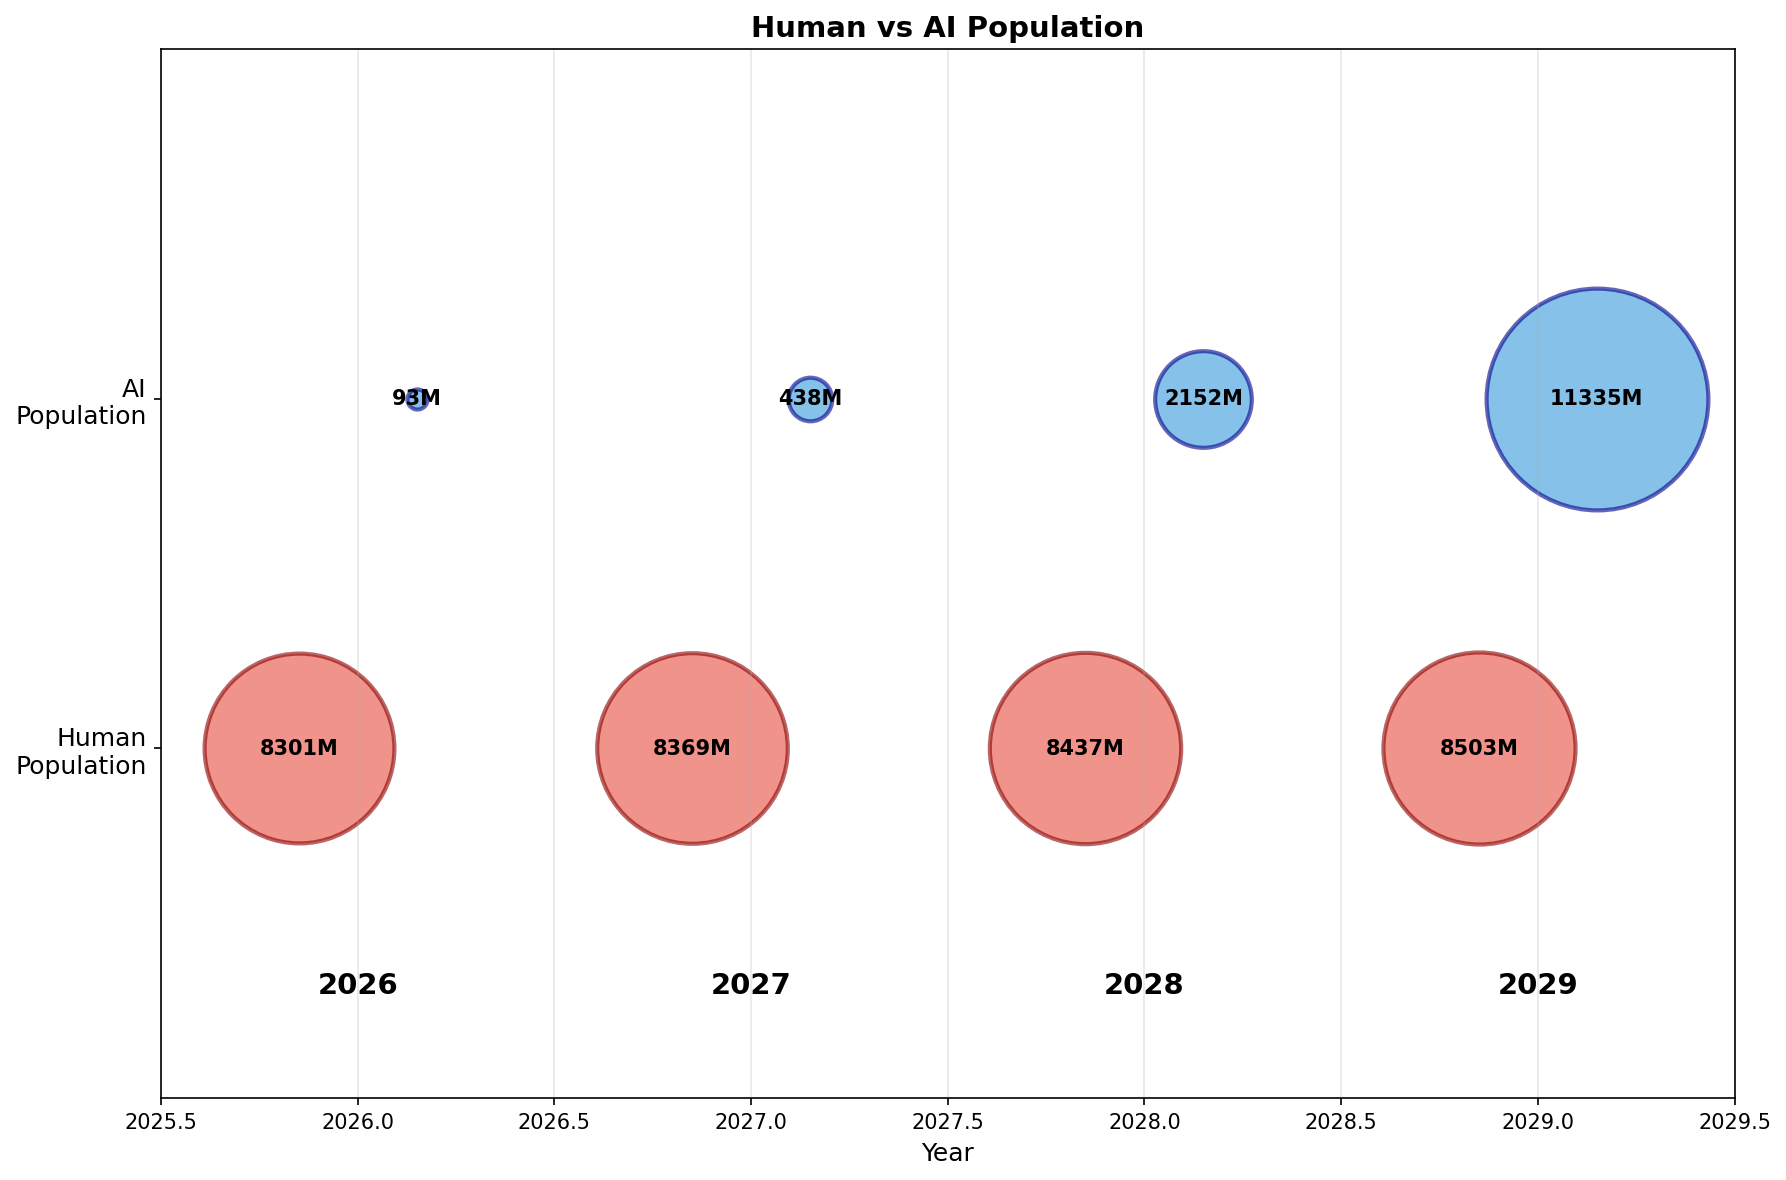
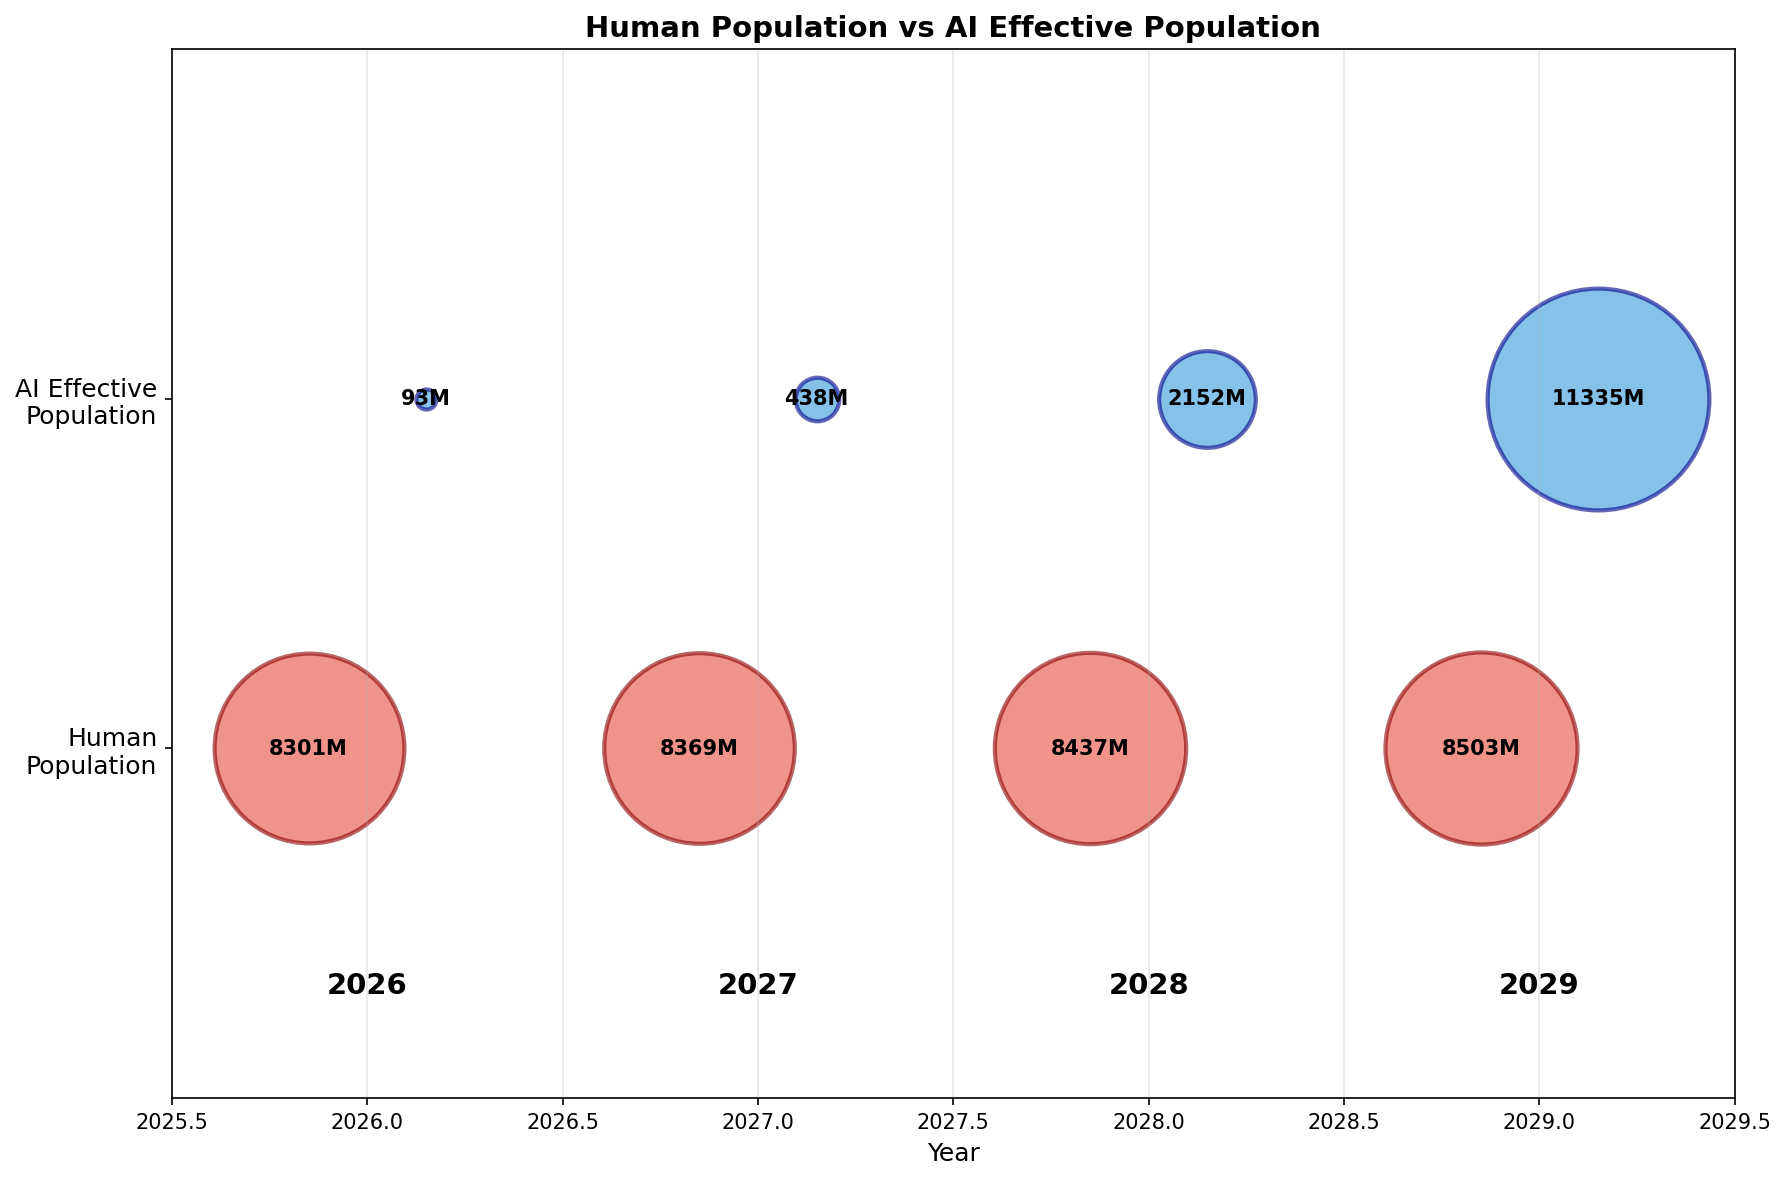
stuff

diff --git a/python/thinkingseconds/per_company_daily_token_projection.py b/python/thinkingseconds/per_company_daily_token_projection.py
@@ -1490,9 +1490,9 @@ def create_population_bubble_chart(models: dict):
     ax.set_xlim(2025.5, 2029.5)
     ax.set_ylim(0, 3)
     ax.set_yticks([1, 2])
-    ax.set_yticklabels(['Human\nPopulation', 'AI\nPopulation'], fontsize=12)
+    ax.set_yticklabels(['Human\nPopulation', 'AI Effective\nPopulation'], fontsize=12)
     ax.set_xlabel('Year', fontsize=12)
-    ax.set_title('Human vs AI Population', fontsize=14, fontweight='bold')
+    ax.set_title('Human Population vs AI Effective Population', fontsize=14, fontweight='bold')
     
     # Print values
     print("\Population Comparison (Effective Population):")

diff --git a/python/thinkingseconds/thinking_post.md b/python/thinkingseconds/thinking_post.md
@@ -12,7 +12,7 @@ However, I think his characterization of AI's effects as being more similar to a
 
 But this discussion got me thinking: how many "geniuses" do we have in the data center right now? That is, accounting for the fact the AIs "think" faster than humans do, and can think in parallel, how much thinking do the AIs do collectively in human terms?
 
-The second question I want to answer is: when will the collective thinking of all AIs will outweigh that of humans?  Phrased differently: when will there be 8 billion "geniuses" in the data center? 
+The second question I want to answer is: when will the collective thinking of all AIs outweigh that of humans?  Phrased differently: when will there be 8 billion "geniuses" in the data center? 
 
 AI usage is growing exponentially at the present moment. While exponential growth isn't guaranteed to continue, if it does, the crossover point might only be a few years away. To be clear, the crossover point doesn't intrinsically mean anything special. By then, the labor market, and the world at large, will already have been radically altered. However, I think it's worth keeping this date in mind as a marker for when human thought will be in the minority, and not the majority. 
 
@@ -34,10 +34,11 @@ With these two assumptions in mind, let's go!
     7. Limitations
 3. How many geniuses are in the data center right now?
 4. When will the crossover happen?
+5. Conclusion
 
 ## How many token-equivalents does a person think each day?
 
-The first part of this puzzle is figuring out the how much the average person think, in terms of tokens.
+The first part of this puzzle is figuring out how much the average person thinks, in terms of tokens.
 
 We don't have strong numbers on how fast people's internal stream of consciousness is, but we do have numbers on people's reading and speaking WPM, which should be in the same ballpark.
 
@@ -45,7 +46,7 @@ According to [this study](https://www.sciencedirect.com/science/article/abs/pii/
 Another [study on speaking speed in British English](https://francis-press.com/uploads/papers/pv7j7Z9uRgQyPUxnVTDTPecUAEP0HJcWWhGErVeD.pdf) suggests that the spoken words per minute in casual conversation is 222 wpm. 
 All of this together suggests that humans think at around 230 WPM (give or take 10). 
 
-We'll assume that the average person is awake for 16 hours a day, and that people think more or less constantly while they're awake. This isn't quite right, since babies and children sleep more, and older people sleep less, but it's probably approximately correct. Tokens are [commonly approximated](https://help.openai.com/en/articles/4936856-what-are-tokens-and-how-to-count-them) as 3/4 of a word.Putting this together, we find that each person thinks the equivalent of 294,400 tokens each day.
+We'll assume that the average person is awake for 16 hours a day, and that people think more or less constantly while they're awake. This isn't quite right, since babies and children sleep more, and older people sleep less, but it's probably approximately correct. Tokens are [commonly approximated](https://help.openai.com/en/articles/4936856-what-are-tokens-and-how-to-count-them) as 3/4 of a word. Putting this together, we find that each person thinks the equivalent of 294,400 tokens each day.
 
 ## How many tokens do AIs collectively process each day?
 
@@ -195,13 +196,17 @@ There are some obvious issues with the approach used here. I'll name the largest
 3. All of our revenue based predictions are effectively based off of a single sama tweet. 
 4. We're not considering internal/non-public AI usage.
 
-But all that being said, I think it's ballpark correct, especially for the next 2 years. This is not only because of the past trends being relatively consistent across both compute, inference, and revenue, but also because the [datacenter capacity projections](https://epoch.ai/data/data-centers) (as measured by the sites committed to by the various AI labs) line up with the token projections I'm making. Beyond that, I have much less confidence.
+But all that being said, I think it's ballpark correct, especially for the next 2 years. This is not only because of the past trends being relatively consistent across compute, inference, and revenue, but also because the [datacenter capacity projections](https://epoch.ai/data/data-centers) (as measured by the sites committed to by the various AI labs) line up with the token projections I'm making. Beyond that, I have much less confidence.
 
 ## How many "geniuses" are in the data center right now?
 
 Based on the token model, there are about 27.4T tokens being processed per day in Jan 2026. This equates to about 93 million people's worth of thinking, based on our estimate of 294,400 tokens per day per person.
 
 With 93 million people, AI collectively already forms a healthy sized country! For reference, a population of 93 million would place the country about halfway between Iran (85.9 million) and Vietnam (101.3 million).
+
+The "country of geniuses in a datacenter" is already almost real.
+The amount of labor being done by AIs right now would already take an entire human country's worth of people to do. The only difference is that our data center is filled with midwits and not geniuses (at least for now).  
+In some sense, this is unsurprising. With how much AI is being mentioned and discussed today, it would be surprising if the amount of actual labor being done was much lower than amount we see. 
 
 ## When will the crossover happen?
 
@@ -222,15 +227,10 @@ We can make it easier to visualize with this bubble chart:
 | 2028| 	8.44B| 	2.15B |	25.5%
 | 2029| 	8.50B| 	11.3B |	133.3%
 
-## AI as a country of midwits in a datacenter, taken seriously
-
-The "country of geniuses in a datacenter" is already almost real.
-The amount of labor being done by AIs right now already would already take an entire human country's worth of people to do. The only difference is that our data center is filled with midwits and not geniuses (at least for now).  
-In some sense, this is unsurprising. With how much AI is being mentioned and discussed today, it would be surprising if the amount of actual labor being done was much lower than amount we see. 
 
 Let's take the conceptualization of AI as a country seriously for a minute. What would the implications be?
 
-First, it's obvious that this country is growing at an incredible rate. The projections next 4 years show a roughly 400% annual growth. The country with the current highest growth rate is Niger, but it has an annual growth rate of  only 3.8%. The total fertility rate (TFR), if we used standard methods to calculate it, would be literally off the charts (3 * 10^19). 
+First, it's obvious that this country is growing at an incredible rate. The projections for the next 4 years show a roughly 400% annual growth. The country with the current highest growth rate is Niger, but it has an annual growth rate of  only 3.8%. This country would have a growth rate more than 100 times that!
 
 Second, it's obvious that this country is going to produce a lot. In terms of services, a lot of labor is going to be offshored here. These people work around the clock, they accept tiny wages, and their population is always growing. Junior software developers have a lot to fear. But, there's also the cultural products: all countries produce things like literature, music, and memes, and this one will be no exception. Catchphrases like "You're absolutely right!" have already entered into the global consciousness. This will likely intensify over the next few years. 
 
@@ -240,8 +240,8 @@ Of course, this metaphor isn't perfect: The AI country lacks physical presence, 
 
 ## Conclusion
 
-AI usage, as measured by tokens, has been growing exponentially over the past 2-3 years. Because information is relatively sparse, we can't be completely sure of the current amount of usage in tokens, but multiple lines of evidence, including revenue, compute spending, and stated usage, all point towards continued growth. Companies have already put down the money to build the data centers to support this rate of growth for the next year or two. That being said, the forecasts I make are Fermi-level esimates, and are meant to capture the general scale rather than be exact point-in-time estimates. Additionally, after the next few years point, I'm less confident about my predictions: exponential growth can't last forever, and will eventually come to an end.
+AI usage, as measured by tokens, has been growing exponentially over the past 2-3 years. Because information is relatively sparse, we can't be completely sure of the current amount of usage in tokens, but multiple lines of evidence, including revenue, compute spending, and stated usage, all point towards continued growth. Companies have already put down the money to build the data centers to support this rate of growth for the next year or two. That being said, the forecasts I make are Fermi-level estimates, and are meant to capture the general scale rather than be exact point-in-time estimates. Additionally, after the next few years point, I'm less confident about my predictions: exponential growth can't last forever, and will eventually come to an end.
 
-Regardless, the implications of even the next two years will be immense. AI already collectively processes ~27.4 trillion tokens per day as of January 2026. This equals 93 million people's worth of thinking, roughly the population of a country between Iran and Vietnam. This country will grow at roughly 400% annually. By Jan 2029, in 3 years, the AI "population" will be 11.3 billion, 133% of human population. 
+Regardless, the implications of even the next two years will be immense. AI already collectively processes ~27.4 trillion tokens per day as of January 2026. This equals 93 million people's worth of thinking, roughly the population of a country between Iran and Vietnam. This country will grow at roughly 400% annually, unprecedented by human standards. By Jan 2029, in 3 years, the AI "population" will be 11.3 billion, 133% of human population. 
 
 Dario points out that "country of geniuses in a datacenter" would bring "profound economic, societal, and security implications". He's most likely correct. Navigating the next few years will be tricky along many dimensions. However, I'm confident that if we manage it, we will be able to reap immense benefits for all. 
